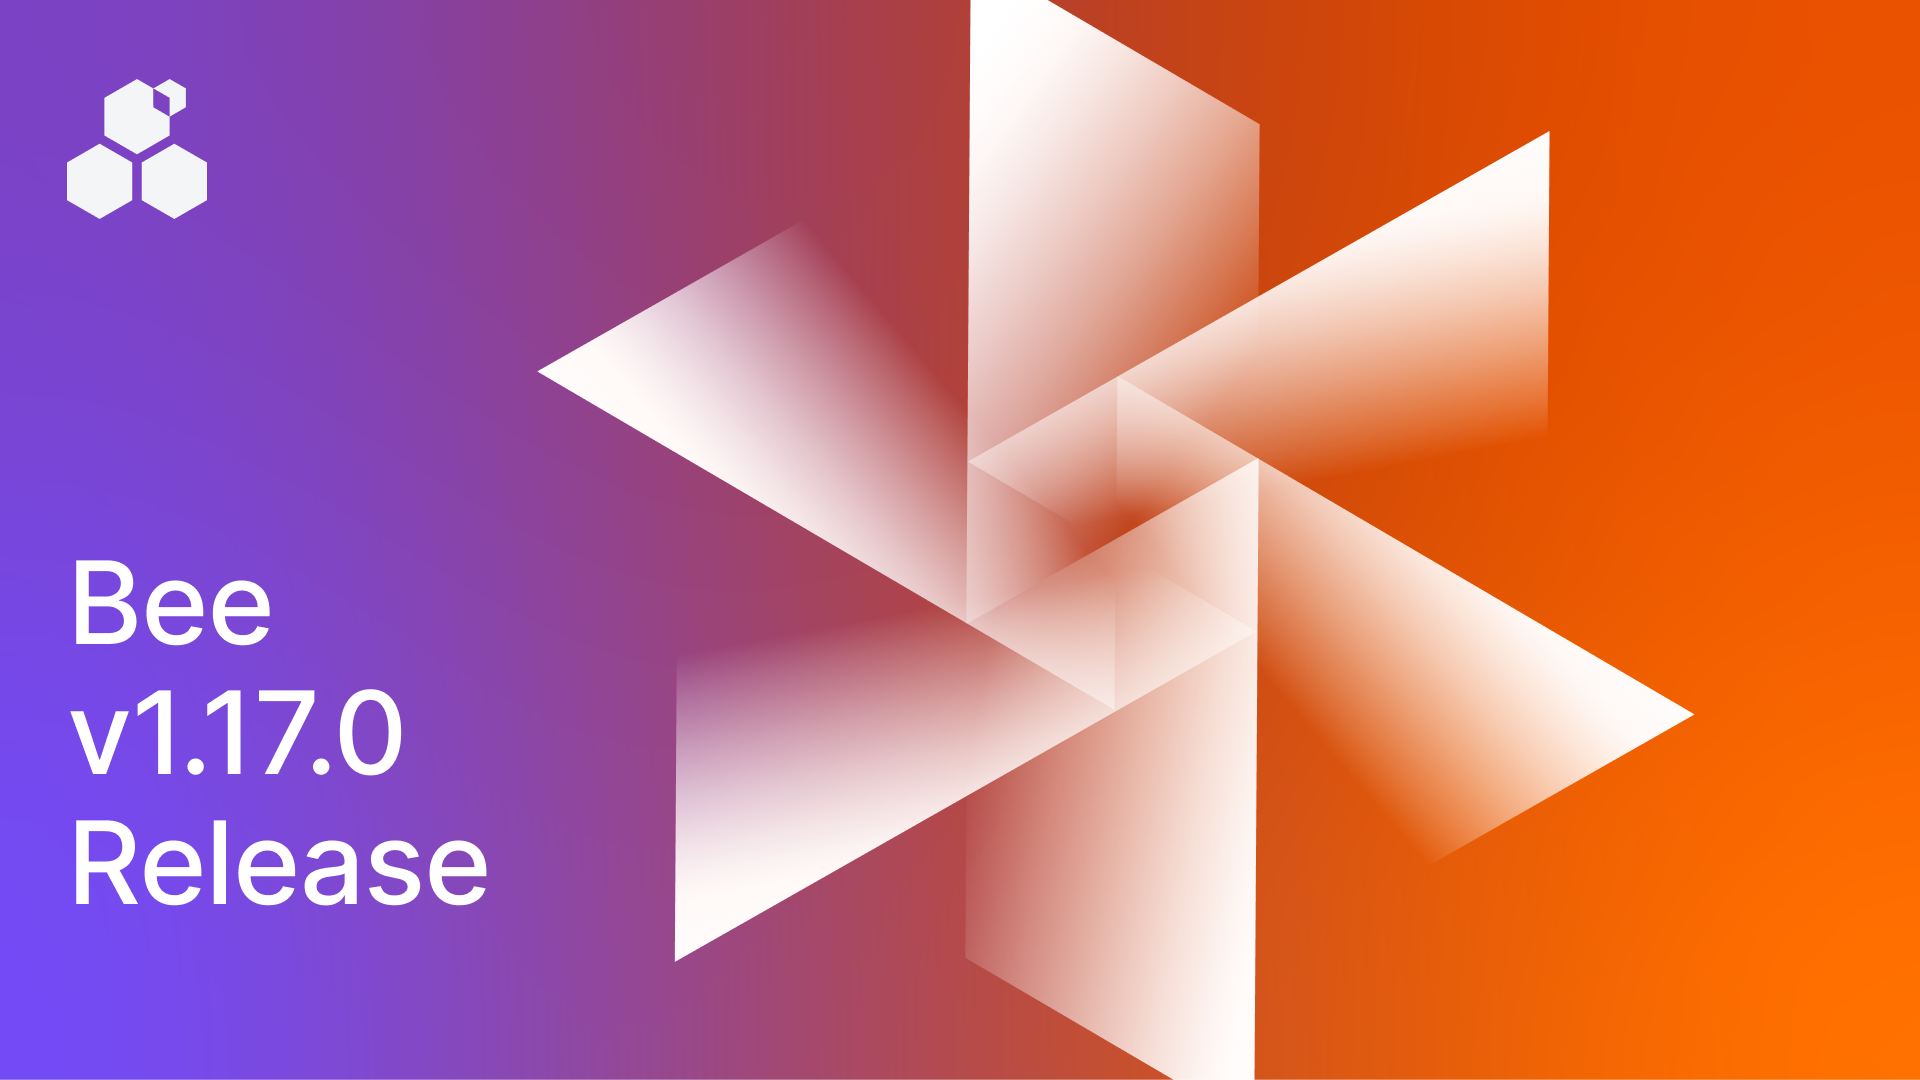
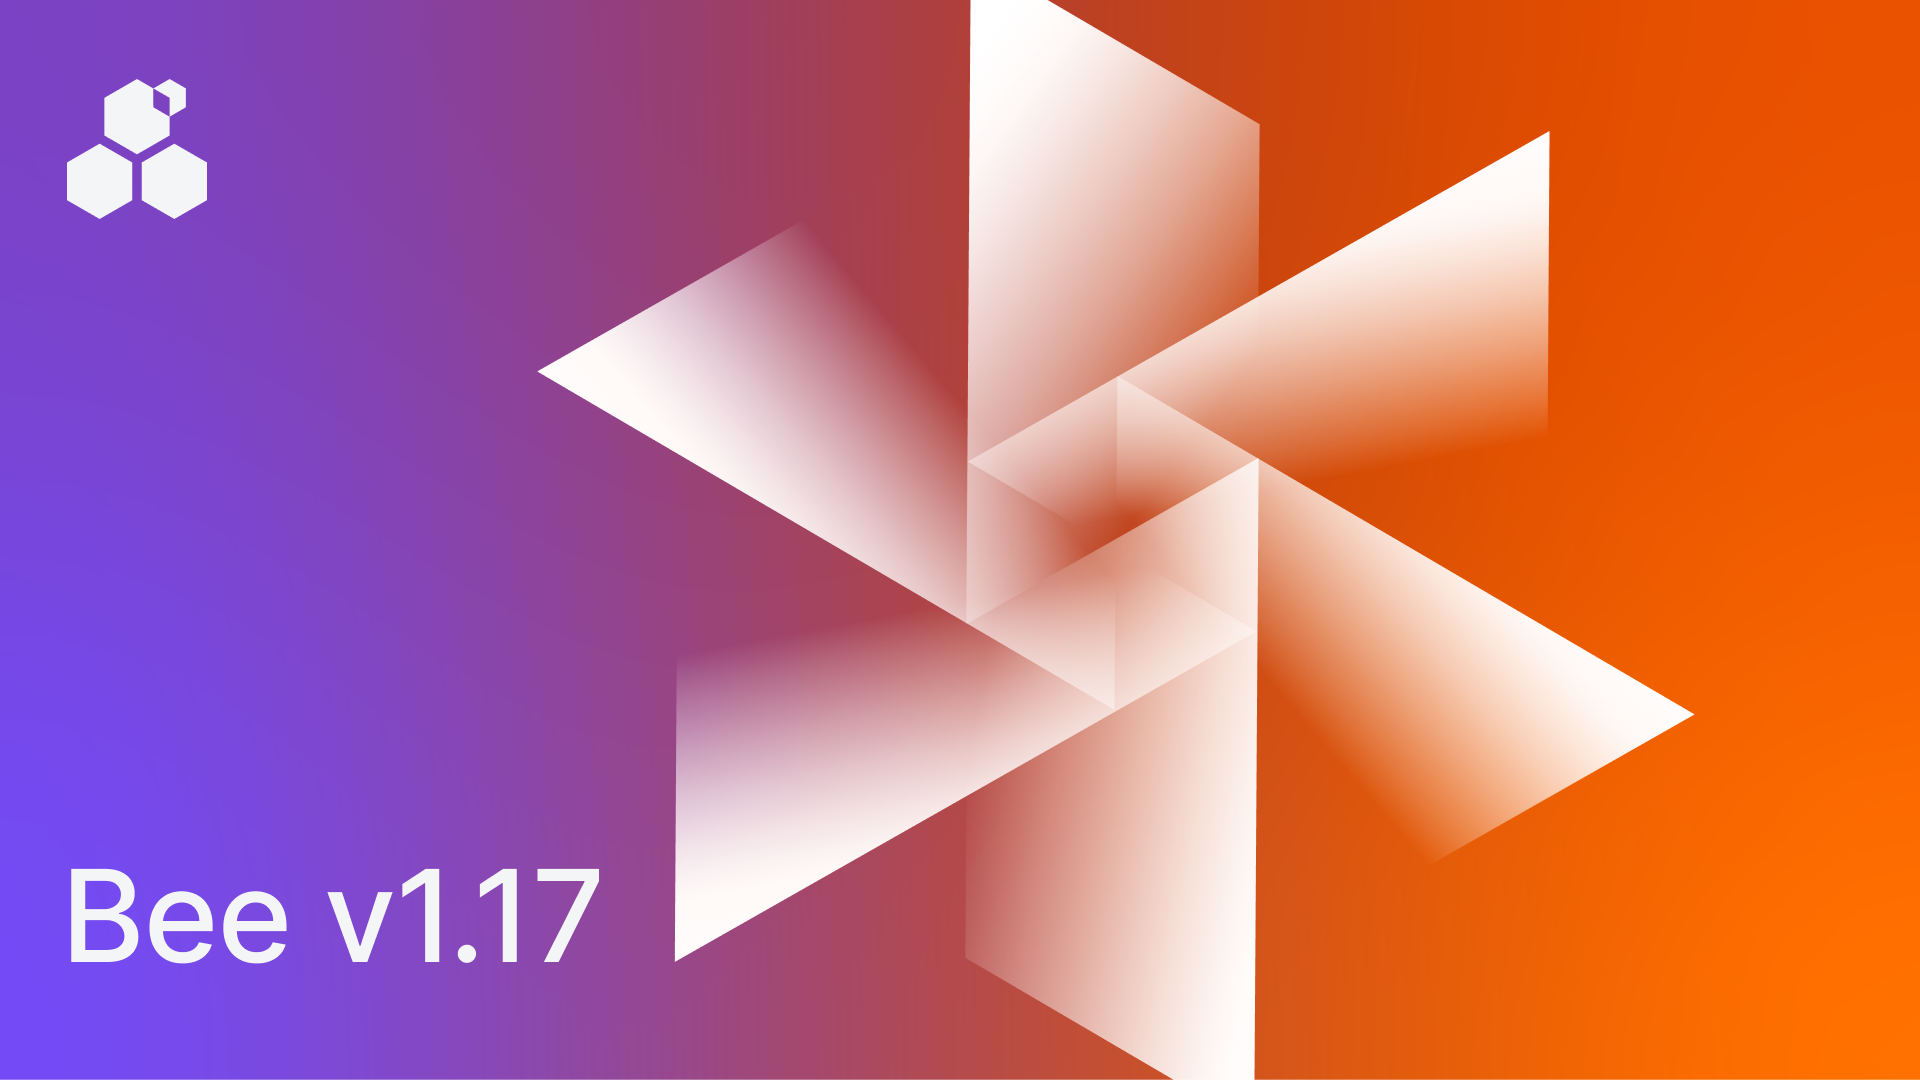
fixed cover image

Changed region(s): [[0.0312, 0.6417, 0.3125, 0.9167], [0.0312, 0.5194, 0.1562, 0.6111]]

diff --git a/content/foundation/posts/swarm-1-17-0-is-here.md b/content/foundation/posts/swarm-1-17-0-is-here.md
@@ -1,6 +1,6 @@
 +++
-banner = "/uploads/graphic-no-text.png"
-categories = [ "Events" ]
+banner = "/uploads/bee-1-17-0.png"
+categories = [ "Development updates" ]
 date = 2023-08-03T00:00:00.000Z
 description = "Bee 1.17 is here! This update represents a significant step forward in terms of increased ease of code maintainability and reduced time for new feature development. With the storage incentives rollout nearing completion, the team has in recent months focused on the completion of the 1.17 update. The update will go live by the end of this week, and since it is a breaking update at the protocol level, all node operators should make sure to update their nodes."
 references_and_footnotes = [ ]
